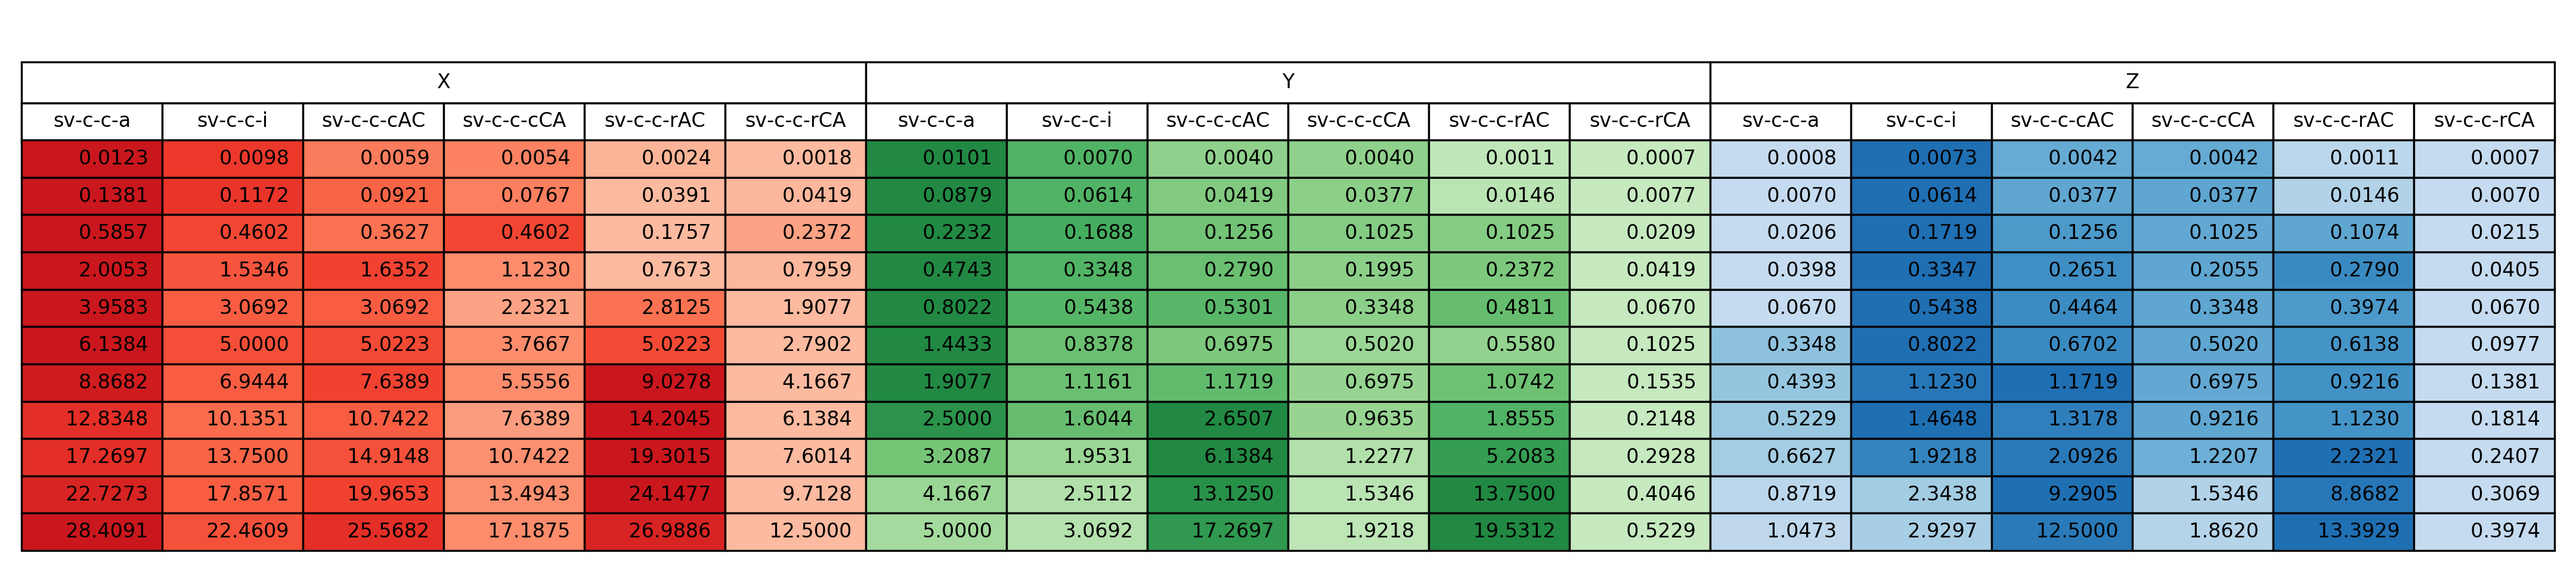
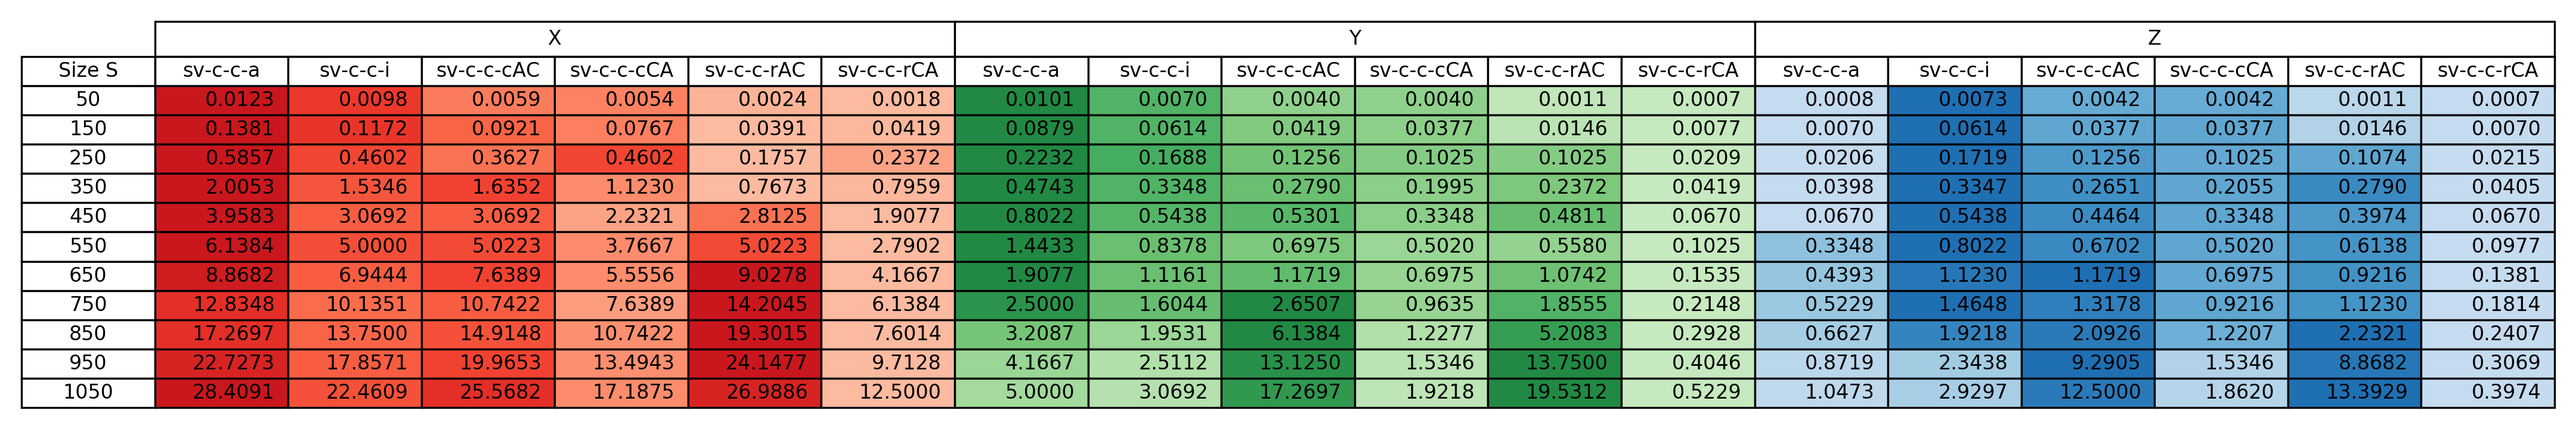
Added size at the left side of renders. Dual-renders only with cropped time. Need to re-run benchmarks for conv1d and high-res for xtensor benchmarks

diff --git a/scripts/plot_table_file.py b/scripts/plot_table_file.py
@@ -24,42 +24,54 @@ def get_color_colors_of_block(values, mode):
     return cell_colors
 
 
-def draw_double_header_table(group_headers, subgroup_headers, subgroup_data: dict, color_modes):
+def draw_double_header_table(group_headers, subgroup_headers, subgroup_data: dict, color_modes, data_config):
     row_numbers = set(map(len, subgroup_data.values()))
     if len(row_numbers) != 1:
         raise ValueError("Subgroup-data has different number of rows for different keys!")
     else:
         row_numbers = tuple(row_numbers)
-    number_of_rows = row_numbers[0] + 2
+    number_of_rows = row_numbers[0]
 
+    axis_label = data_config.axis_label
     longest_numbers = ([max(list(arr.flatten()), key=lambda x: len(str(x))) for arr in subgroup_data.values()])
     subgroup_header_length = len(max(subgroup_headers, key=len)) - max(subgroup_headers, key=len).count('-')
-    factor = max(len(str(max(map(str, longest_numbers), key=len))), subgroup_header_length) / 7
+    factor = max(len(str(max(map(str, longest_numbers), key=len))), subgroup_header_length, len(axis_label)) / 7
 
     fig_width = int(factor * len(group_headers) * len(subgroup_headers))
-    fig_height = (row_numbers[0] // 2) - 1
+    fig_height = (row_numbers[0] // 3)
     fig, ax = plt.subplots(figsize=(fig_width, fig_height))
+
+    cell_width = 1 / (len(subgroup_headers) * len(group_headers) + 1)
 
     fig.patch.set_visible(False)
     ax.axis('off')
     ax.axis('tight')
 
     ax.table(
+        cellText=np.expand_dims(parse_x(data_config.x), axis=1),
+        colLabels=[axis_label],
+        bbox=[0, 0, cell_width, (row_numbers[0] - 1) / number_of_rows],
+        cellLoc='center',
+    )
+
+    ax.table(
         cellText=[[''] * len(group_headers)],
         colLabels=group_headers,
-        bbox=[0, (number_of_rows - 3) / number_of_rows, 1, 2 / number_of_rows],
+        bbox=[cell_width, (number_of_rows - 2) / number_of_rows, 1 - cell_width, 2 / number_of_rows],
         cellLoc='center',
     )
 
     for i, group in enumerate(group_headers):
-        right_shift = len(str(max(np.floor(subgroup_data[group]), key=lambda x: len(str(int(x[0]))))))
-        s = f' >{right_shift + 5}.4f'
+        longest_cell_number = max(list(np.floor(subgroup_data[group]).astype(int).flatten()), key=lambda x: len(str(x)))
+        right_shift = len(str(longest_cell_number))
+        s = f' >{right_shift + 0}.4f'
 
         ax.table(
             cellText=[[("{value:" + s + "}").format(value=value) for value in row] for row in subgroup_data[group]],
             colLabels=subgroup_headers,
             cellColours=get_color_colors_of_block(subgroup_data[group], color_modes[group]),
-            bbox=[i / len(group_headers), 0, 1 / len(group_headers), row_numbers[0] / number_of_rows],
+            bbox=[cell_width + i * cell_width * len(subgroup_headers), 0, cell_width * len(subgroup_headers),
+                  (row_numbers[0] - 1) / number_of_rows],
             cellLoc='right',
         )
 
@@ -133,10 +145,13 @@ def draw_table(data_dir, config_dir, out_dir, name):
     )
     color_modes = {key: getattr(table_config.color_modes.values, key) for key in group_headers}
 
-    figure = draw_double_header_table(group_headers, subgroup_headers, subgroup_data, color_modes)
+    figure = draw_double_header_table(group_headers, subgroup_headers, subgroup_data, color_modes, data_config)
 
     makedirs(out_dir, exist_ok=True)
     figure.savefig(p_join(out_dir, f"{name}.png"), dpi=240)
+    plt.clf()
+    plt.cla()
+    plt.close(figure)
 
 
 def main(file_context: FileContext):

diff --git a/scripts/plot_all_tables.py b/scripts/plot_all_tables.py
@@ -4,22 +4,22 @@ from plot_table import main as table
 def main():
     benchmark_tables = {
         "xtensor": (
-        #    "benchmark_normalizing",
-        #    "benchmark_transpose-view",
-        #    "benchmark_reshape-view",
-        #    "benchmark_tensor_copy_complete",
-        #    "benchmark_strided-view_copy_complete",
-        #    "benchmark_strided-view_copy_paddingStride",
-        #    "benchmark_view_copy_complete",
-        #    "benchmark_view_copy_paddingStride",
+            "benchmark_normalizing",
+            "benchmark_transpose-view",
+            "benchmark_reshape-view",
+            "benchmark_tensor_copy_complete",
+            "benchmark_strided-view_copy_complete",
+            "benchmark_strided-view_copy_paddingStride",
+            "benchmark_view_copy_complete",
+            "benchmark_view_copy_paddingStride",
         ),
         "xvigra": (
-        #    "benchmark_convolve1D_inputSize",
-        #    "benchmark_convolve2D_inputSize",
-        #    "benchmark_separableConvolve1D_inputSize",
-        #    "benchmark_separableConvolve2D_inputSize",
-        #    "benchmark_separableConvolve1D_kernelSize",
-        #    "benchmark_separableConvolve2D_kernelSize"
+            "benchmark_convolve1D_inputSize",
+            "benchmark_convolve2D_inputSize",
+            "benchmark_separableConvolve1D_inputSize",
+            "benchmark_separableConvolve2D_inputSize",
+            "benchmark_separableConvolve1D_kernelSize",
+            "benchmark_separableConvolve2D_kernelSize"
         )
     }
 

diff --git a/scripts/run_benchmarks.py b/scripts/run_benchmarks.py
@@ -7,7 +7,6 @@ from util import TimeMeasure, string_framed_line
 from plot_benchmark import main as plot
 
 
-
 def build_all():
     os_name = platform.system()
     is_windows = "Windows" == os_name
@@ -90,16 +89,16 @@ def main():
             "benchmark_view_copy_paddingStride_Y",
             "benchmark_view_copy_paddingStride_Z",
         ),
-        # "xvigra": (
-        #   "benchmark_convolve1D_inputSize_channelFirst",
-        #   "benchmark_convolve1D_inputSize_channelLast",
-        #   "benchmark_convolve2D_inputSize_channelFirst",
-        #   "benchmark_convolve2D_inputSize_channelLast",
-        #   "benchmark_separableConvolve1D_inputSize",
-        #   "benchmark_separableConvolve2D_inputSize",
-        #   "benchmark_separableConvolve1D_kernelSize",
-        #   "benchmark_separableConvolve2D_kernelSize"
-        # )
+        "xvigra": (
+            "benchmark_convolve1D_inputSize_channelFirst",
+            "benchmark_convolve1D_inputSize_channelLast",
+            #   "benchmark_convolve2D_inputSize_channelFirst",
+            #   "benchmark_convolve2D_inputSize_channelLast",
+            #   "benchmark_separableConvolve1D_inputSize",
+            #   "benchmark_separableConvolve2D_inputSize",
+            #   "benchmark_separableConvolve1D_kernelSize",
+            #   "benchmark_separableConvolve2D_kernelSize"
+        )
     }
 
     build_all()

diff --git a/benchmarks/xvigra/benchmark_convolve1D_inputSize_channelFirst.cpp b/benchmarks/xvigra/benchmark_convolve1D_inputSize_channelFirst.cpp
@@ -25,7 +25,8 @@
     ->ComputeStatistics("max", [](const std::vector<double>& v) -> double {   \
         return *(std::max_element(std::begin(v), std::end(v)));               \
       })                                                                      \
-    ->DenseRange(INPUT_SIZE_MIN, INPUT_SIZE_MAX, INPUT_SIZE_STEP)
+    ->DenseRange(INPUT_SIZE_MIN, INPUT_SIZE_MAX, INPUT_SIZE_STEP) \
+    ->Unit(benchmark::kMicrosecond)
 
 // ╔══════════════════════════════════════════════════════════════════════════════════════════════════════════════════╗
 // ║ define - end                                                                                                     ║

diff --git a/benchmarks/xvigra/benchmark_convolve1D_inputSize_channelLast.cpp b/benchmarks/xvigra/benchmark_convolve1D_inputSize_channelLast.cpp
@@ -25,7 +25,8 @@
     ->ComputeStatistics("max", [](const std::vector<double>& v) -> double {   \
         return *(std::max_element(std::begin(v), std::end(v)));               \
       })                                                                      \
-    ->DenseRange(INPUT_SIZE_MIN, INPUT_SIZE_MAX, INPUT_SIZE_STEP)
+    ->DenseRange(INPUT_SIZE_MIN, INPUT_SIZE_MAX, INPUT_SIZE_STEP) \
+    ->Unit(benchmark::kMicrosecond)
 
 // ╔══════════════════════════════════════════════════════════════════════════════════════════════════════════════════╗
 // ║ define - end                                                                                                     ║
